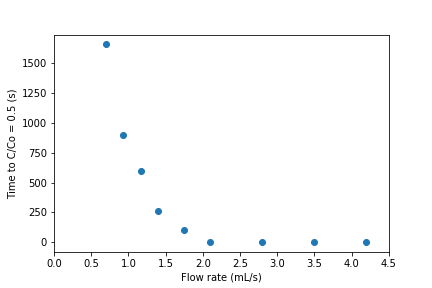
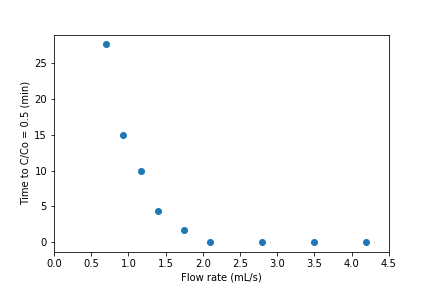
new graphs!

Changed region(s): [[0.0, 0.2812, 0.1204, 0.7188], [0.0602, 0.1875, 0.1204, 0.25], [0.0602, 0.6875, 0.1204, 0.75]]

diff --git a/Project/team10_final_report.md b/Project/team10_final_report.md
@@ -72,6 +72,12 @@ Figure 3: Diagram of the experimental setup for the trial with 8 even layers of 
 
 [Jacqueline: Diagrams to explain hypothesis]:#
 
+![Layering Hypothesis](https://raw.githubusercontent.com/lw583/CEE4530/master/Project/Graphic_5.png)
+Figure x: Diagram of ....
+
+![Mixing Hypothesis](https://raw.githubusercontent.com/lw583/CEE4530/master/Project/Graphic_6.png)
+Figure x: Diagram of ....
+
 #### Suggestions / Comments ####
 
 [Victor: Copy things from slide.]:#
@@ -229,12 +235,6 @@ leg = plt.legend(('1 layer', 'no layers'), loc='best')
 plt.savefig("Project/Layers_4.png")
 plt.show()
 
-# More uniform red dye concentration between pores with mixing because bigger distance between activated carbon granules. More transport, more mixing, more uniform before next AC granule.
-# Assuming transport by diffusion within the dimension of a pore is a rate limiting step. Rate at which transfer red dye into AC is function of diffusion within the pore.
-
-# Suspect might take a difference at huuuuge layers
-# Diluting with sand helps only if same mass of activated carbon
-
 # Plot concentration against time for different flow rates
 plt.plot(time_data[6].to(u.min), C_data[6])
 plt.plot(time_data[7].to(u.min), C_data[7])
@@ -283,10 +283,26 @@ for i in range(len(filenames)):
     if (C_data[i][j-1] < C_45) and (C_data[i][j] > C_45):
       t_array[i] = (time_data[i][j].magnitude)
 
-plt.plot(Flow_rate[6:15], t_array[6:15], 'o')
+t_array = t_array * u.s
+plt.plot(Flow_rate[6:15], (t_array[6:15]).to(u.min), 'o')
 plt.xlabel('Flow rate (mL/s)')
-plt.ylabel('Time to C/Co = 0.5 (s)')
+plt.ylabel('Time to C/Co = 0.5 (min)')
 plt.xlim(right=4.5,left=0)
 plt.savefig("Project/Time_Flows.png")
+plt.show()
+
+# Plot volume treated until C = 0.5 C0
+V_array = t_array[6:15] * Flow_rate[6:15]
+plt.plot(Flow_rate[6:15], (V_array).to(u.L), 'o')
+plt.xlabel('Flow rate (mL/s)')
+plt.ylabel('Volume (L)')
+plt.savefig("Project/Volume_Flows_1.png")
+plt.show()
+
+# Plot volume treated for lower flow rates
+plt.plot(Flow_rate[6:11], (V_array[1:6]).to(u.L), 'o')
+plt.xlabel('Flow rate (mL/s)')
+plt.ylabel('Volume (L)')
+plt.savefig("Project/Volume_Flows_2.png")
 plt.show()
 ```
